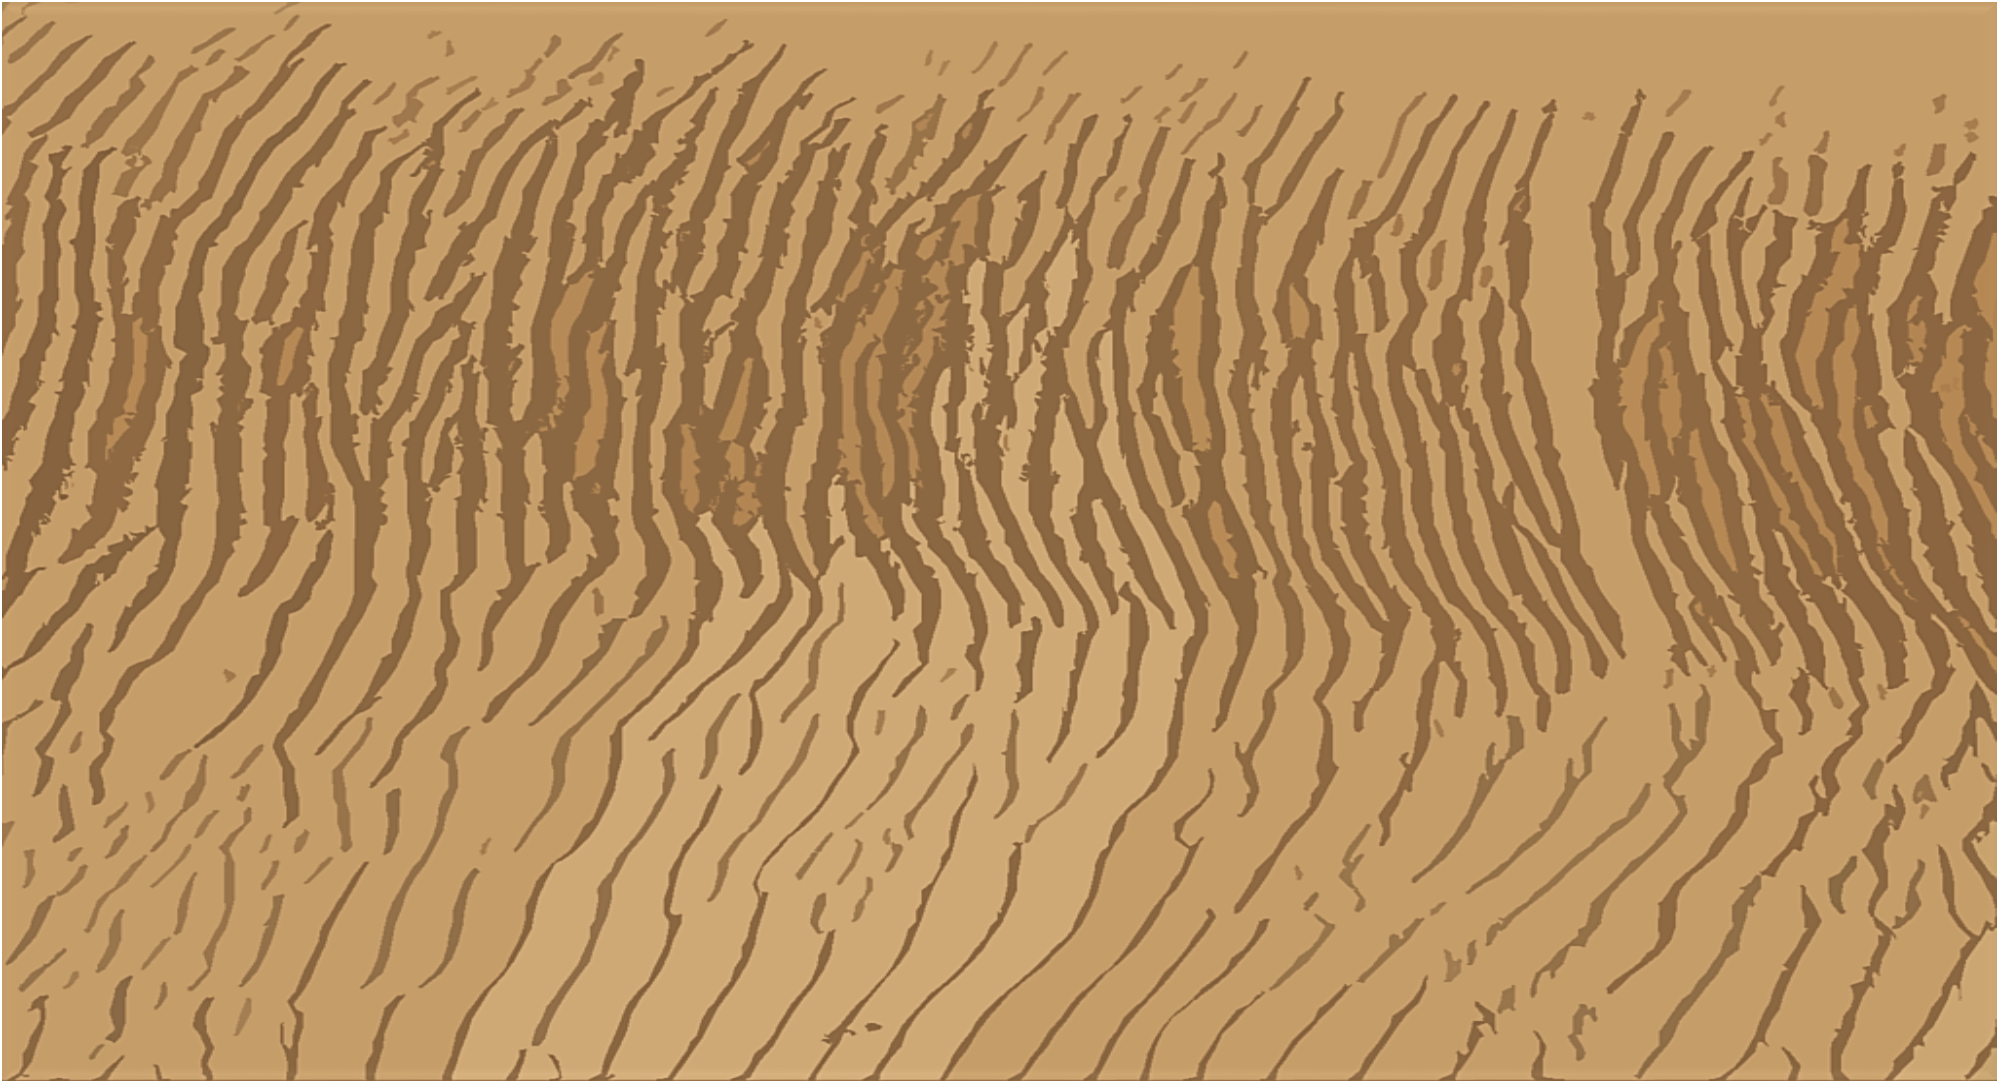
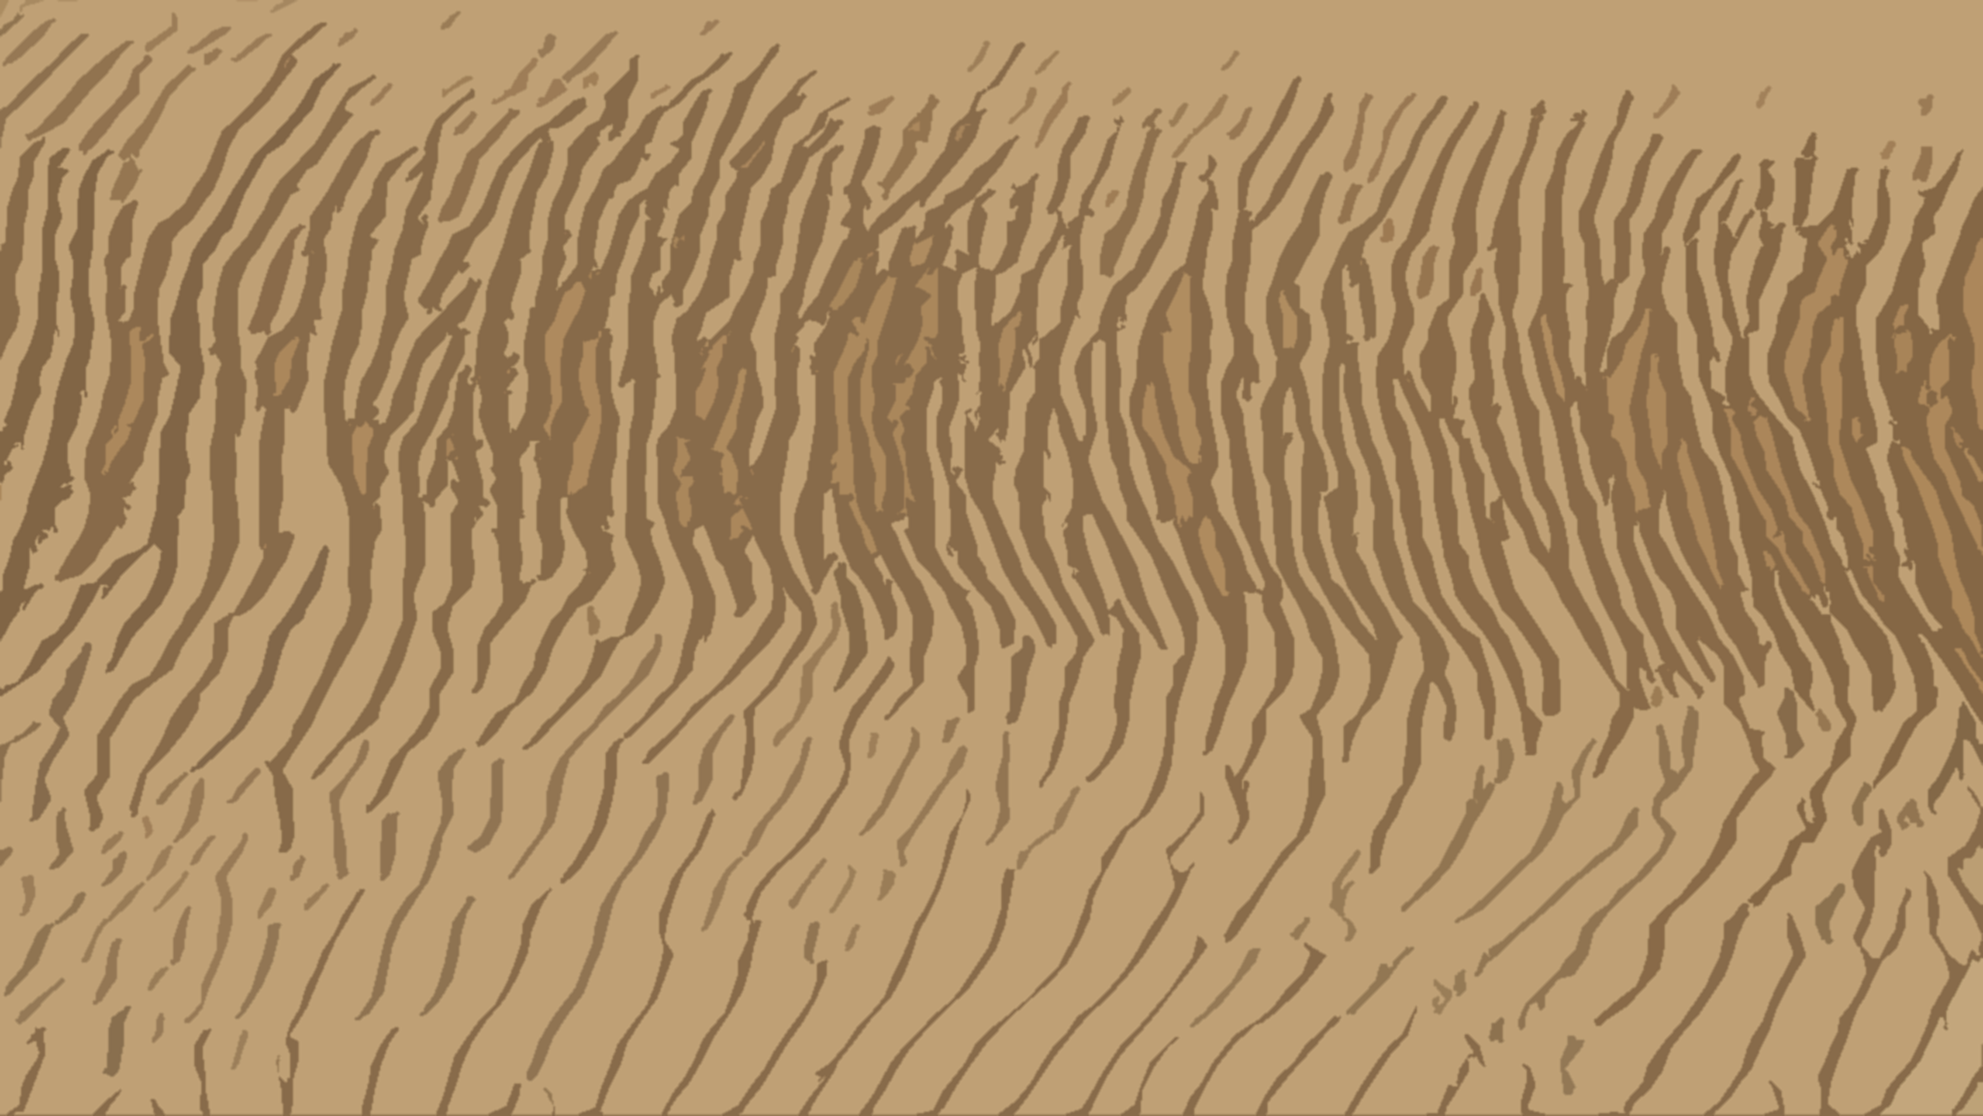
update

diff --git a/Personal JavaFX Snake/src/com/SnakeGame/Utilities/ImageUtility.java b/Personal JavaFX Snake/src/com/SnakeGame/Utilities/ImageUtility.java
@@ -100,8 +100,8 @@ public class ImageUtility {
 		lighting.setSpecularConstant(specularMap);
 		lighting.setSurfaceScale(10.0);
 		lighting.setLight(light);
-		shadow.setColor(Color.rgb(0, 0, 0, 0.5));
-		shadow.setRadius(15);
+		shadow.setColor(Color.rgb(0, 0, 0, 0.6));
+		shadow.setRadius(20);
 		shadow.setOffsetX(20);
 		shadow.setOffsetY(-15);
 		lighting.setContentInput(shadow);
@@ -112,7 +112,32 @@ public class ImageUtility {
 		img = ImageUtility.createImage(view);
 		return img;
 	}
-
+	public static Image precreatedLightedAndShadedImageTwo(String path, double diffused, double specularMap, double width,
+			double height) {
+		DropShadow shadow = new DropShadow(15, Color.BLACK);
+		Lighting lighting = new Lighting();
+		Light.Point light = new Light.Point();
+		Image img = new Image(loadResource(path), width, height, true, true);
+		ImageView view = new ImageView(img);
+		light.setX(-200);
+		light.setY(300);
+		light.setZ(140);
+		lighting.setDiffuseConstant(diffused);
+		lighting.setSpecularConstant(specularMap);
+		lighting.setSurfaceScale(10.0);
+		lighting.setLight(light);
+		shadow.setColor(Color.rgb(0, 0, 0, 0.6));
+		shadow.setRadius(20);
+		shadow.setOffsetX(20);
+		shadow.setOffsetY(-15);
+		lighting.setContentInput(shadow);
+		if (Settings.ADD_LIGHTING)
+			view.setEffect(lighting);
+		view.setFitWidth(width);
+		view.setFitHeight(height);
+		img = ImageUtility.createImage(view);
+		return img;
+	}
 	public static Image precreatedLightedAndShadedSnake(String path, double diffused, double specularMap, double width,
 			double height) {
 		DropShadow shadow = new DropShadow(15, Color.BLACK);
@@ -122,15 +147,15 @@ public class ImageUtility {
 		ImageView view = new ImageView(img);
 		light.setX(-200);
 		light.setY(300);
-		light.setZ(150);
+		light.setZ(140);
 		lighting.setDiffuseConstant(diffused);
 		lighting.setSpecularConstant(specularMap);
 		lighting.setSurfaceScale(10.0);
 		lighting.setLight(light);
-		shadow.setColor(Color.rgb(0, 0, 0, 0.6));
-		shadow.setRadius(20);
-		shadow.setWidth(25);
-		shadow.setHeight(25);
+		shadow.setColor(Color.rgb(0, 0, 0, 0.5));
+		shadow.setRadius(5);
+		shadow.setOffsetX(20);
+		shadow.setOffsetY(-15);
 		lighting.setContentInput(shadow);
 		if (Settings.ADD_LIGHTING)
 			view.setEffect(lighting);

diff --git a/Personal JavaFX Snake/src/com/SnakeGame/ImageBanks/GameLevelImage.java b/Personal JavaFX Snake/src/com/SnakeGame/ImageBanks/GameLevelImage.java
@@ -16,7 +16,6 @@ import javafx.scene.image.Image;
  */
 
 public class GameLevelImage {
-	public static int LEVEL = 1;
 	public static boolean firstSectionLoaded = false;
 	public static boolean secondSectionLoaded = false;
 	public static boolean thirdSectionLoaded = false;
@@ -36,7 +35,7 @@ public class GameLevelImage {
 	public static Image desert_skull;
 	public static Image desert_sand;
 	public static Image desert_flower_two;
-	
+
 	public static Image jungle_rain;
 
 
@@ -55,8 +54,8 @@ public class GameLevelImage {
 			170 / GameLoader.ResolutionScaleY);
 	desert_rock = ImageUtility.precreatedLightedAndShadedImage("desert_rock.png", Settings.GlOBAL_ILLUMINATION,
 			Settings.SPECULAR_MAP, 150 / GameLoader.ResolutionScaleX, 150 / GameLoader.ResolutionScaleY);
-	desert_bark = ImageUtility.precreatedLightedAndShadedImage("desert_tree_bark.png", Settings.GlOBAL_ILLUMINATION,
-			Settings.SPECULAR_MAP-0.2, 480 / GameLoader.ResolutionScaleX, 210 / GameLoader.ResolutionScaleY);
+	desert_bark = ImageUtility.precreatedLightedAndShadedImageTwo("desert_tree_bark_three.png", Settings.GlOBAL_ILLUMINATION,
+			Settings.SPECULAR_MAP, 480 / GameLoader.ResolutionScaleX, 210 / GameLoader.ResolutionScaleY);
 	desert_cactus_big = ImageUtility.precreatedLightedAndShadedImage("big_cactus_thick2.png",
 			Settings.GlOBAL_ILLUMINATION, Settings.SPECULAR_MAP, 130 / GameLoader.ResolutionScaleX,
 			190 / GameLoader.ResolutionScaleY);
@@ -77,12 +76,12 @@ public class GameLevelImage {
 			92 / GameLoader.ResolutionScaleY);
 	desert_sand = ImageUtility.precreatedLightedImage("sandGrain.png",
 			Settings.GlOBAL_ILLUMINATION - 0.5, Settings.SPECULAR_MAP - 0.5, 5, 5);
-	
-	
+
+
 	/**
 	 * Jungle level images
 	 */
-	
+
 	jungle_rain = new Image(ImageUtility.loadResource("rainDrop.png"),10,10, true, true);
 	}
 

diff --git a/Personal JavaFX Snake/src/com/SnakeGame/ImageBanks/GameImageBank.java b/Personal JavaFX Snake/src/com/SnakeGame/ImageBanks/GameImageBank.java
@@ -111,7 +111,7 @@ public class GameImageBank {
 				97 / GameLoader.ResolutionScaleY);
 		snakeOneEating = ImageUtility.precreatedLightedImage("desert-snake-head-eat3.png", Settings.GlOBAL_ILLUMINATION,
 				Settings.SPECULAR_MAP, 111 / GameLoader.ResolutionScaleX, 97 / GameLoader.ResolutionScaleY);
-		snakeOneSkin = ImageUtility.precreatedLightedImage("snake_skin_one.png", Settings.GlOBAL_ILLUMINATION,
+		snakeOneSkin = ImageUtility.precreatedLightedAndShadedSnake("snake_skin_one.png", Settings.GlOBAL_ILLUMINATION,
 				Settings.SPECULAR_MAP, 197 / GameLoader.ResolutionScaleX, 176 / GameLoader.ResolutionScaleY);
 		snakeTail = ImageUtility.precreatedLightedAndShadedSnake("desert-snake-tail2.png", Settings.GlOBAL_ILLUMINATION,
 				Settings.SPECULAR_MAP, 114 / GameLoader.ResolutionScaleX, 243 / GameLoader.ResolutionScaleY);
@@ -133,7 +133,7 @@ public class GameImageBank {
 				97 / GameLoader.ResolutionScaleY);
 		snakeTwoEating = ImageUtility.precreatedLightedImage("desert-snake-head-eat5.png", Settings.GlOBAL_ILLUMINATION,
 				Settings.SPECULAR_MAP, 111 / GameLoader.ResolutionScaleX, 97 / GameLoader.ResolutionScaleY);
-		snakeTwoSkin = ImageUtility.precreatedLightedImage("snake_skin_two.png", Settings.GlOBAL_ILLUMINATION,
+		snakeTwoSkin = ImageUtility.precreatedLightedAndShadedSnake("snake_skin_two.png", Settings.GlOBAL_ILLUMINATION,
 				Settings.SPECULAR_MAP, 197 / GameLoader.ResolutionScaleX, 176 / GameLoader.ResolutionScaleY);
 		snakeTwoDebris = ImageUtility.precreatedLightedImage("snake-skin3.png", Settings.GlOBAL_ILLUMINATION,
 				Settings.SPECULAR_MAP, 5 / GameLoader.ResolutionScaleX, 5 / GameLoader.ResolutionScaleY);

diff --git a/Personal JavaFX Snake/src/com/SnakeGame/FrameWork/Settings.java b/Personal JavaFX Snake/src/com/SnakeGame/FrameWork/Settings.java
@@ -20,8 +20,8 @@ public class Settings {
 	public static double HEIGHT = Toolkit.getDefaultToolkit().getScreenSize().getHeight();
 	public static double SIZE_SCALE = 1.0;
 
-	public static int SNAKE_SPEED = 5; // must be a number which the size of the result remains whole
-	public static double SECTION_SIZE = 25; // Could now be any number I think!!
+	public static int SNAKE_SPEED = 6; // must be a number which the size of the result remains whole
+	public static double SECTION_SIZE = 30; // Could now be any number I think!!
 	public static final int SLITHER_SPEED = 5;
 
 	public static int APPLE_COUNT = 4;
@@ -40,7 +40,7 @@ public class Settings {
 	public static float PLAYER_HEALTH = 100.0f;
 	public static float GLOBAL_ACCELARATION = 0.01f;
 	public static double GlOBAL_ILLUMINATION = 2.0;
-	public static double SPECULAR_MAP = 2.0;
+	public static double SPECULAR_MAP = 1.8;
 
 	public static int BLUR_RANDOMNESS = 200;
 	public static int MAX_AMOUNT_OF_DEBRIS = 40;

diff --git a/Personal JavaFX Snake/src/com/SnakeGame/FrameWork/GameLoader.java b/Personal JavaFX Snake/src/com/SnakeGame/FrameWork/GameLoader.java
@@ -490,7 +490,7 @@ public class GameLoader extends AbstractLoaderModel{
 	public void switcLevel() {
 		Front_Distance_LOD = 512;
 		Rear_Distance_LOD = 511;
-		switch (GameLevelImage.LEVEL) {
+		switch (LEVEL) {
 		case 0:
 			setLevel(levelMain);
 			break;
@@ -529,7 +529,7 @@ public class GameLoader extends AbstractLoaderModel{
 		this.levelWidth = getLevel().getWidth();
 		this.levelHeight = getLevel().getHeight();
 		loadPixelMap();
-		GameLevelImage.LEVEL++;
+		LEVEL++;
 	}
 
 

diff --git a/Personal JavaFX Snake/src/com/SnakeGame/AbstractModels/AbstractLoaderModel.java b/Personal JavaFX Snake/src/com/SnakeGame/AbstractModels/AbstractLoaderModel.java
@@ -13,7 +13,7 @@ import com.SnakeGame.Utilities.GameImageLoader;
 import com.SnakeGame.Utilities.GameTileManager;
 
 public abstract class AbstractLoaderModel {
-
+	public static int LEVEL = 1;
 	protected BufferedImage border;
 	protected BufferedImage fence;
 	protected BufferedImage levelMain;
